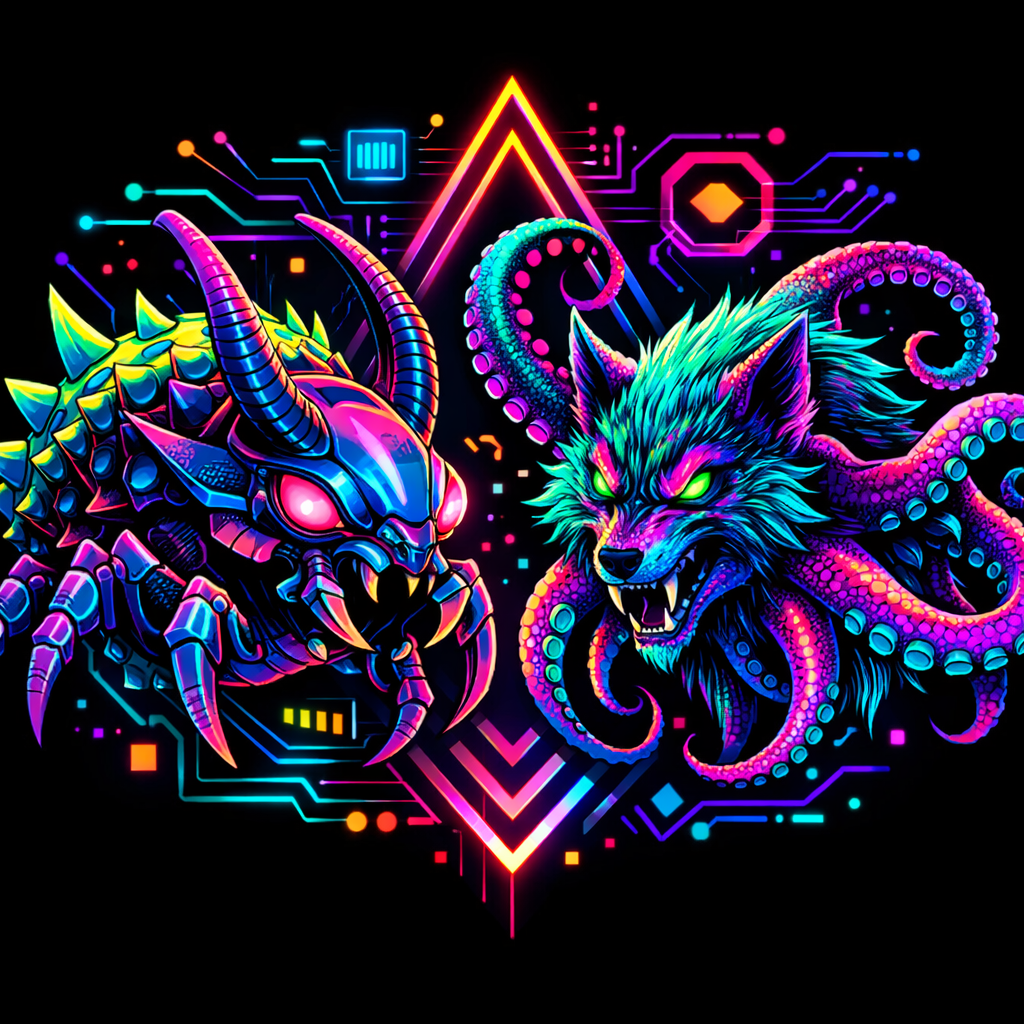
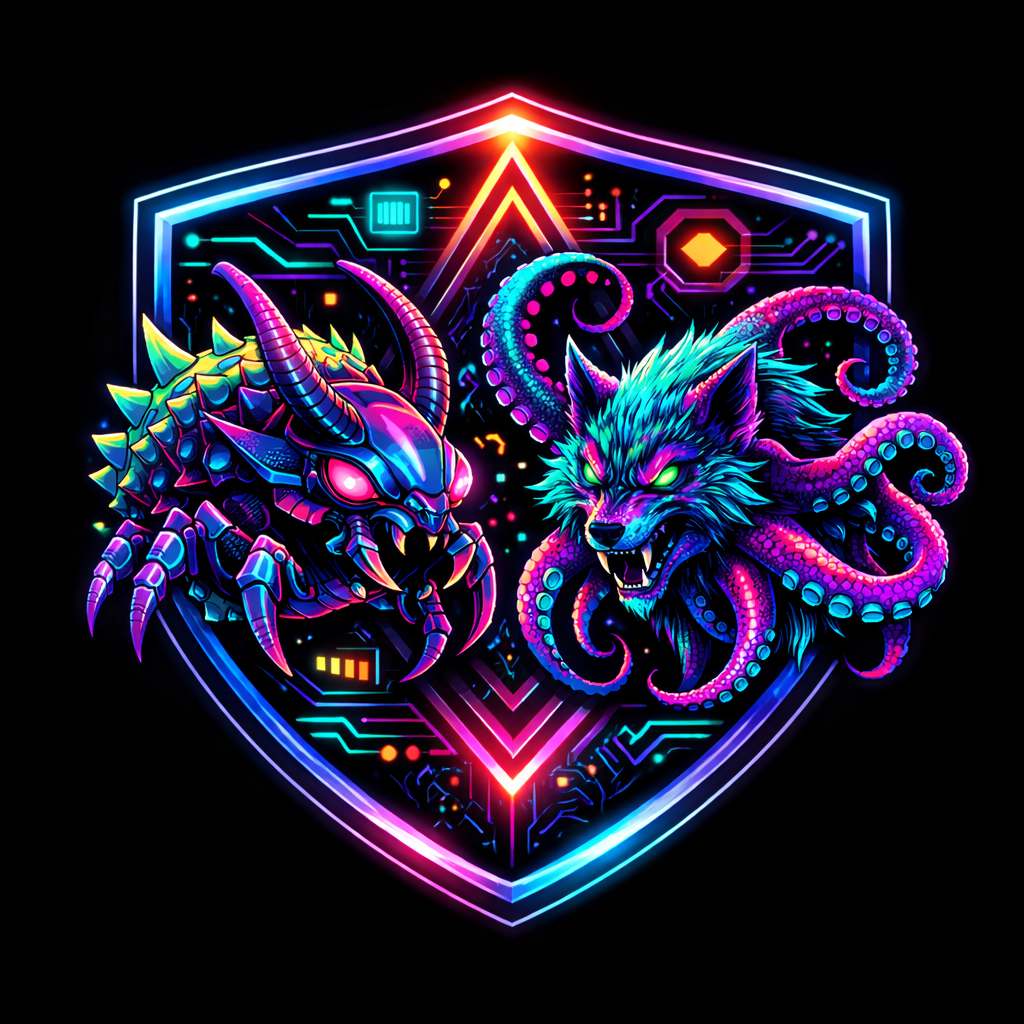
Add Series Completion Badge feature with Modal and Social Share

diff --git a/_layouts/post.html b/_layouts/post.html
@@ -215,6 +215,19 @@ layout: default
             {% if page.series %}
             <aside class="series-sidebar-static" id="seriesSidebarStatic">
                 <div class="sidebar-inner-sticky">
+                    <!-- Series Badge Section -->
+                    {% assign series_slug = page.series | strip | slugify %}
+                    <div class="series-sidebar-badge-container">
+                        <img src="{{ '/assets/images/series_badges/' | append: series_slug | append: '.png' | relative_url }}" 
+                             alt="{{ page.series }} Badge" 
+                             class="series-sidebar-badge"
+                             onerror="this.style.display='none'">
+                        
+                        <button class="claim-badge-btn" onclick="openBadgeModal()">
+                            <i class="fas fa-certificate"></i> Claim Series Badge
+                        </button>
+                    </div>
+
                     <div class="sidebar-header-static">
                         <h3><i class="fas fa-book-open"></i> {{ page.series }}</h3>
                     </div>
@@ -345,6 +358,74 @@ layout: default
         </div>
     </footer>
 </article>
+
+<!-- Badge Modal -->
+<div id="badge-modal" class="badge-modal-overlay">
+    <div class="badge-modal-content">
+        <button class="badge-modal-close" onclick="closeBadgeModal()">&times;</button>
+        
+        <div class="badge-modal-header">
+            <i class="fas fa-trophy badge-trophy-icon"></i>
+            <h2>Claim Your Achievement</h2>
+        </div>
+
+        <div class="badge-modal-body">
+            <div class="badge-preview">
+                <img src="{{ '/assets/images/series_badges/' | append: series_slug | append: '.png' | relative_url }}" 
+                     alt="{{ page.series }} Badge"
+                     class="modal-badge-image">
+            </div>
+            
+            <p class="badge-congrats">
+                You've navigated the <strong>{{ page.series }}</strong> series! 
+                This badge represents your journey through these concepts.
+            </p>
+
+            <div class="badge-usage-policy">
+                <h4><i class="fas fa-shield-alt"></i> Badge Usage Policy</h4>
+                <ul>
+                    <li>You are free to display this badge on your portfolio, LinkedIn, or GitHub profile.</li>
+                    <li>This badge signifies that you have engaged with the educational material provided in this series.</li>
+                    <li>Tag <strong>@Tharunaditya1</strong> when you share it!</li>
+                </ul>
+            </div>
+
+            <div class="badge-actions">
+                <a href="{{ '/assets/images/series_badges/' | append: series_slug | append: '.png' | relative_url }}" 
+                   download="{{ series_slug }}-badge.png" 
+                   class="badge-action-btn download-btn">
+                    <i class="fas fa-download"></i> Download Badge
+                </a>
+                
+                <a href="https://twitter.com/intent/tweet?text=I%20just%20completed%20the%20{{ page.series | uri_escape }}%20series%20by%20@Tharunaditya1!%20Check%20it%20out%20here:%20{{ page.url | absolute_url }}%20%F0%9F%8E%93%20%23Security%20%23Learning" 
+                   target="_blank" 
+                   rel="noopener noreferrer"
+                   class="badge-action-btn share-btn">
+                    <i class="fab fa-twitter"></i> Share Achievement
+                </a>
+            </div>
+        </div>
+    </div>
+</div>
+
+<script>
+    function openBadgeModal() {
+        document.getElementById('badge-modal').classList.add('visible');
+        document.body.style.overflow = 'hidden'; // Prevent scrolling
+    }
+
+    function closeBadgeModal() {
+        document.getElementById('badge-modal').classList.remove('visible');
+        document.body.style.overflow = ''; // Restore scrolling
+    }
+
+    // Close on click outside
+    document.getElementById('badge-modal').addEventListener('click', function(e) {
+        if (e.target === this) {
+            closeBadgeModal();
+        }
+    });
+</script>
 
 {% else %}
 

diff --git a/assets/css/blog.css b/assets/css/blog.css
@@ -527,6 +527,190 @@
     margin-top: auto;
 }
 
+/* Series Sidebar Badge */
+.series-sidebar-badge-container {
+    text-align: center;
+    margin-bottom: 1.5rem;
+    padding-bottom: 1.5rem;
+    border-bottom: 1px solid rgba(255, 255, 255, 0.1);
+}
+
+.series-sidebar-badge {
+    width: 120px;
+    height: 120px;
+    object-fit: contain;
+    filter: drop-shadow(0 0 10px rgba(0, 255, 159, 0.3));
+    margin-bottom: 1rem;
+    transition: transform 0.3s ease;
+}
+
+.series-sidebar-badge:hover {
+    transform: scale(1.05) rotate(5deg);
+}
+
+.claim-badge-btn {
+    display: inline-flex;
+    align-items: center;
+    gap: 8px;
+    background: linear-gradient(135deg, #FFD700, #FFA500);
+    color: #000;
+    font-weight: bold;
+    border: none;
+    padding: 8px 16px;
+    border-radius: 20px;
+    cursor: pointer;
+    font-size: 0.85rem;
+    transition: all 0.2s ease;
+    box-shadow: 0 4px 15px rgba(255, 215, 0, 0.3);
+}
+
+.claim-badge-btn:hover {
+    transform: translateY(-2px);
+    box-shadow: 0 6px 20px rgba(255, 215, 0, 0.5);
+}
+
+/* Badge Modal */
+.badge-modal-overlay {
+    position: fixed;
+    inset: 0;
+    background: rgba(0, 0, 0, 0.85);
+    backdrop-filter: blur(8px);
+    z-index: 10000;
+    display: flex;
+    align-items: center;
+    justify-content: center;
+    opacity: 0;
+    pointer-events: none;
+    transition: opacity 0.3s ease;
+}
+
+.badge-modal-overlay.visible {
+    opacity: 1;
+    pointer-events: auto;
+}
+
+.badge-modal-content {
+    background: #1a1f2e;
+    width: 90%;
+    max-width: 500px;
+    border-radius: 24px;
+    padding: 2.5rem;
+    position: relative;
+    border: 1px solid rgba(0, 255, 159, 0.2);
+    box-shadow: 0 0 50px rgba(0, 255, 159, 0.15);
+    transform: translateY(20px);
+    transition: transform 0.3s ease;
+    text-align: center;
+}
+
+.badge-modal-overlay.visible .badge-modal-content {
+    transform: translateY(0);
+}
+
+.badge-modal-close {
+    position: absolute;
+    top: 15px;
+    right: 20px;
+    background: none;
+    border: none;
+    color: var(--text-secondary);
+    font-size: 2rem;
+    cursor: pointer;
+    transition: color 0.2s;
+}
+
+.badge-modal-close:hover {
+    color: #fff;
+}
+
+.badge-trophy-icon {
+    font-size: 3rem;
+    color: #FFD700;
+    margin-bottom: 1rem;
+    filter: drop-shadow(0 0 15px rgba(255, 215, 0, 0.5));
+}
+
+.badge-modal-header h2 {
+    color: var(--text-primary);
+    margin: 0;
+    font-size: 1.8rem;
+}
+
+.modal-badge-image {
+    width: 150px;
+    height: 150px;
+    object-fit: contain;
+    margin: 2rem 0;
+    filter: drop-shadow(0 0 20px rgba(0, 255, 159, 0.4));
+}
+
+.badge-congrats {
+    color: var(--text-secondary);
+    line-height: 1.6;
+    margin-bottom: 2rem;
+}
+
+.badge-usage-policy {
+    background: rgba(255, 255, 255, 0.05);
+    border-radius: 12px;
+    padding: 1rem;
+    text-align: left;
+    margin-bottom: 2rem;
+    font-size: 0.9rem;
+}
+
+.badge-usage-policy h4 {
+    color: #00ff41;
+    margin: 0 0 0.5rem 0;
+    font-size: 1rem;
+}
+
+.badge-usage-policy ul {
+    margin: 0;
+    padding-left: 1.2rem;
+    color: rgba(255, 255, 255, 0.8);
+}
+
+.badge-actions {
+    display: flex;
+    gap: 1rem;
+    justify-content: center;
+}
+
+.badge-action-btn {
+    flex: 1;
+    display: inline-flex;
+    align-items: center;
+    justify-content: center;
+    gap: 8px;
+    padding: 12px 20px;
+    border-radius: 12px;
+    text-decoration: none;
+    font-weight: 600;
+    transition: all 0.2s ease;
+}
+
+.download-btn {
+    background: rgba(255, 255, 255, 0.1);
+    color: #fff;
+    border: 1px solid rgba(255, 255, 255, 0.2);
+}
+
+.download-btn:hover {
+    background: rgba(255, 255, 255, 0.2);
+}
+
+.share-btn {
+    background: #1DA1F2;
+    color: #fff;
+    border: none;
+}
+
+.share-btn:hover {
+    background: #0c85d0;
+    transform: translateY(-2px);
+}
+
 .series-btn {
     padding: 0.55rem 1rem;
     border-radius: 999px;
